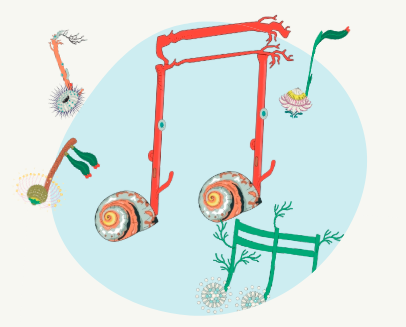
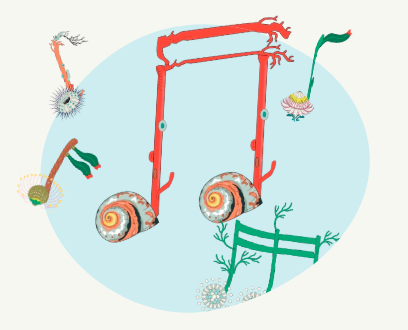
Image alignment and other minor code changes

diff --git a/src/components/domainForSale.jsx b/src/components/domainForSale.jsx
@@ -58,62 +58,61 @@ export default function DomainForSale() {
   };
 
   return (
-    <section className="flex flex-col items-center justify-center text-center h-screen bg-[#f8f8f0] overflow-hidden relative">
-      {/* Floating animation keyframes */}
-      <style jsx>{`
-        @keyframes float {
-          0%,
-          100% {
-            transform: translateY(0px);
+    <div className="max-w-7xl mx-auto bg-[#f8f8f0]">
+      <section className="flex flex-col items-center justify-center text-center h-screen  overflow-hidden relative">
+        {/* Floating animation keyframes */}
+        <style jsx>{`
+          @keyframes float {
+            0%,
+            100% {
+              transform: translateY(0px);
+            }
+            50% {
+              transform: translateY(-20px);
+            }
           }
-          50% {
-            transform: translateY(-20px);
+          .float {
+            animation: float 6s ease-in-out infinite;
           }
-        }
-        .float {
-          animation: float 6s ease-in-out infinite;
-        }
-        .float-slow {
-          animation: float 8s ease-in-out infinite;
-        }
-      `}</style>
+          .float-slow {
+            animation: float 8s ease-in-out infinite;
+          }
+        `}</style>
 
-      {/* Left Illustration */}
-      <img
-        src="/images/illustrationThree.PNG"
-        alt="Left Illustration"
-        className="hidden md:block absolute left-0 top-1/2 -translate-y-1/2 w-[220px] md:w-[280px] object-contain float-slow"
-      />
-
-      {/* Right Illustration */}
-      <img
-        src="/images/illustrationTwo.PNG"
-        alt="Right Illustration"
-        className="hidden md:block absolute right-0 top-1/2 -translate-y-1/2 w-[220px] md:w-[280px] object-contain float-slow"
-      />
-
-      {/* Center Illustration */}
-      <div className="flex items-center justify-center">
         <img
-          src="/images/illustration.PNG"
-          alt="Center Illustration"
-          className="w-[380px] md:w-[460px] object-contain float"
+          src="/images/illustrationThree.PNG"
+          alt="Left Illustration"
+          className="hidden md:block absolute left-0 top-1/2 -translate-y-1/2 
+                   w-[28vw] max-w-[260px] object-contain float-slow"
         />
-      </div>
 
-      {/* Domain button with tooltip-like email hint */}
-      <div className="relative group mt-10">
-        <button
-          className="text-3xl md:text-5xl font-serif text-[#0b2a45] relative z-10 hover:underline transition"
-          onClick={handleContactClick}
-        >
-          Domain for Sale
-        </button>
-        <p className="text-sm md:text-base text-gray-600 mt-2">
-          {" "}
-          Click above to contact
-        </p>
-      </div>
-    </section>
+        <img
+          src="/images/illustrationTwo.PNG"
+          alt="Right Illustration"
+          className="hidden md:block absolute right-0 top-1/2 -translate-y-1/2 
+                   w-[28vw] max-w-[260px] object-contain float-slow"
+        />
+
+        <div className="flex items-center justify-center">
+          <img
+            src="/images/illustration.PNG"
+            alt="Center Illustration"
+            className="w-full h-auto sm:w-[50vw] sm:max-w-[600px] object-contain float"
+          />
+        </div>
+
+        <div className="relative group">
+          <button
+            className="text-3xl md:text-5xl font-serif text-[#0b2a45] relative z-10 hover:underline transition"
+            onClick={handleContactClick}
+          >
+            Domain for Sale
+          </button>
+          <p className="text-sm md:text-base text-gray-600 mt-2">
+            This could be yours - Send us an email
+          </p>
+        </div>
+      </section>
+    </div>
   );
 }

diff --git a/src/index.css b/src/index.css
@@ -10,6 +10,10 @@
   font-display: swap;
 }
 
+body{
+    background:#f8f8f0;
+}
+
 @layer base {
   html {
     font-family: "Voyage", serif !important;
